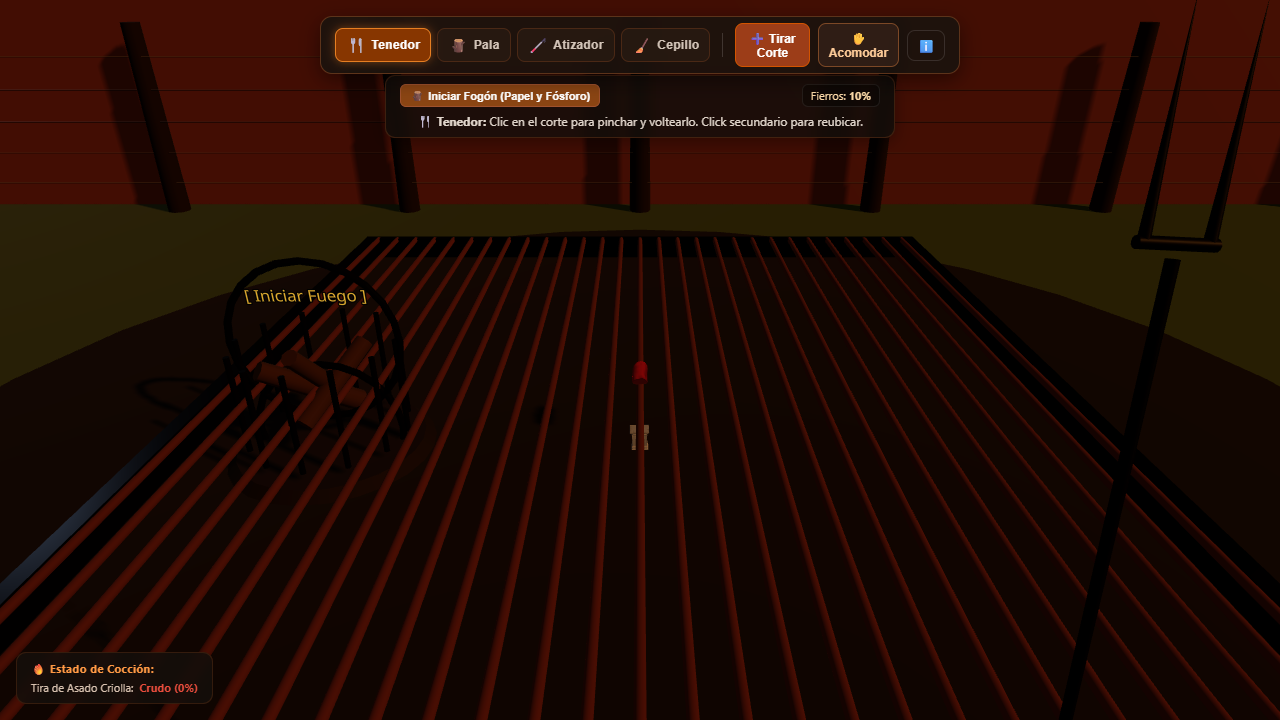
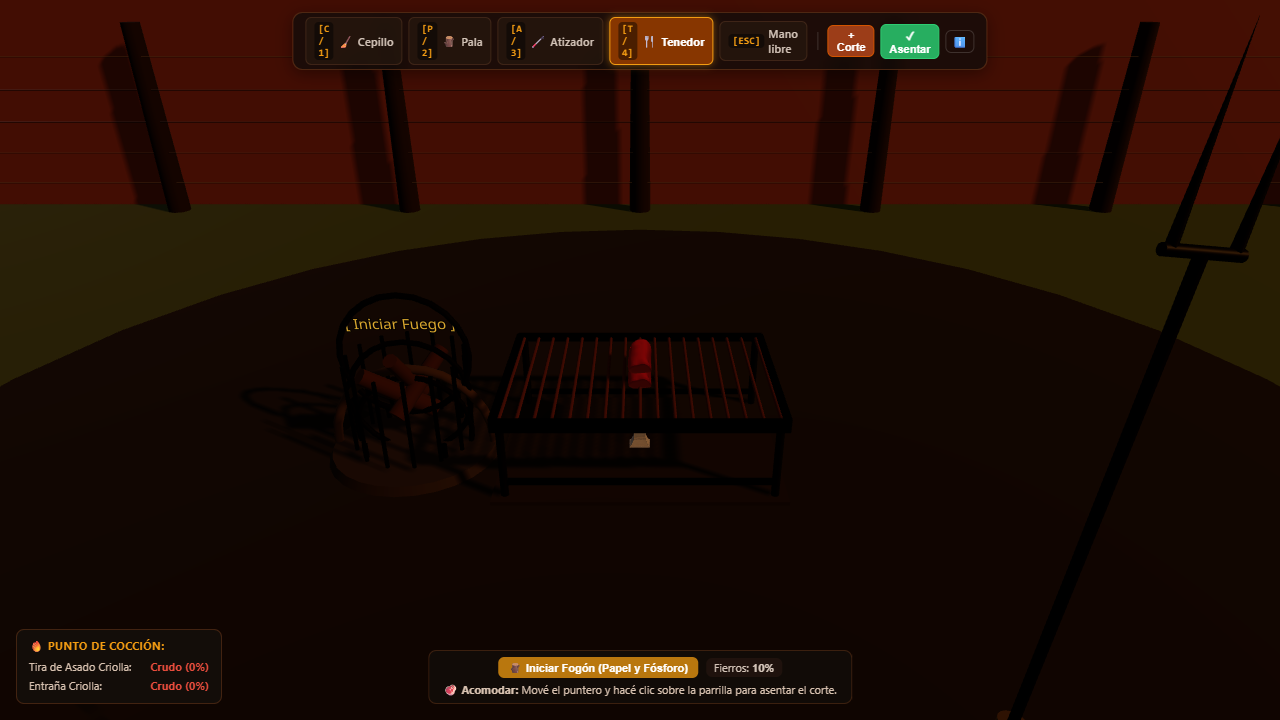
feat: optimizar posicionamiento, escala y animación en primera persona de utensilios parrilleros

diff --git a/frontend/src/components/Player/PlayerTools.tsx b/frontend/src/components/Player/PlayerTools.tsx
@@ -3,9 +3,9 @@ import { useFrame } from '@react-three/fiber';
 import { Group, Vector3, Quaternion, Euler, MathUtils } from 'three';
 import { useAsadoStore, AsadoTool } from '../../store/useAsadoStore';
 
-// Modelo procedural de tenedor parrillero criollo de dos puntas de hierro forjado
+// Modelo procedural de tenedor parrillero criollo orientado naturalmente hacia la parrilla
 export const TenedorModel: React.FC = () => (
-  <group rotation={[0.4, 0.08, -0.1]} scale={[0.5, 0.5, 0.5]}>
+  <group rotation={[-1.15, -0.22, 0.3]} scale={[0.32, 0.32, 0.32]}>
     {/* Mango de madera de quebracho lustrada */}
     <mesh position={[0, -0.32, 0]} castShadow>
       <cylinderGeometry args={[0.02, 0.024, 0.35, 16]} />
@@ -46,7 +46,7 @@ export const TenedorModel: React.FC = () => (
 
 // Modelo procedural de pala parrillera con chapa para brasas
 export const PalaModel: React.FC<{ carriedEmbers?: number }> = ({ carriedEmbers = 0 }) => (
-  <group rotation={[0.4, 0.08, -0.1]} scale={[0.5, 0.5, 0.5]}>
+  <group rotation={[-1.15, -0.22, 0.3]} scale={[0.32, 0.32, 0.32]}>
     {/* Mango de madera */}
     <mesh position={[0, -0.32, 0]} castShadow>
       <cylinderGeometry args={[0.02, 0.024, 0.35, 16]} />
@@ -88,7 +88,7 @@ export const PalaModel: React.FC<{ carriedEmbers?: number }> = ({ carriedEmbers 
         <meshStandardMaterial color="#1c1c1c" roughness={0.5} metalness={0.8} />
       </mesh>
 
-      {/* Brasas incandescentes visibles sobre la pala si se cargaron */}
+      {/* Brasas incandescentes visibles sobre la pala */}
       {carriedEmbers > 0 && (
         <group position={[0, 0, 0.025]}>
           <pointLight color="#ff4400" intensity={1.4} distance={1.0} />
@@ -118,7 +118,7 @@ export const PalaModel: React.FC<{ carriedEmbers?: number }> = ({ carriedEmbers 
 
 // Modelo procedural de atizador criollo en 'L'
 export const AtizadorModel: React.FC = () => (
-  <group rotation={[0.4, 0.08, -0.1]} scale={[0.5, 0.5, 0.5]}>
+  <group rotation={[-1.15, -0.22, 0.3]} scale={[0.32, 0.32, 0.32]}>
     {/* Mango de madera */}
     <mesh position={[0, -0.32, 0]} castShadow>
       <cylinderGeometry args={[0.02, 0.024, 0.35, 16]} />
@@ -153,7 +153,7 @@ export const AtizadorModel: React.FC = () => (
 
 // Modelo procedural de cepillo parrillero de alambre para limpiar hierros
 export const CepilloModel: React.FC = () => (
-  <group rotation={[0.4, 0.08, -0.1]} scale={[0.5, 0.5, 0.5]}>
+  <group rotation={[-1.15, -0.22, 0.3]} scale={[0.32, 0.32, 0.32]}>
     {/* Mango largo de madera */}
     <mesh position={[0, -0.25, 0]} castShadow>
       <cylinderGeometry args={[0.016, 0.02, 0.4, 12]} />
@@ -225,7 +225,7 @@ export const PlayerTools: React.FC = () => {
     };
   }, [setSelectedTool]);
 
-  const currentPos = useRef(new Vector3(0.28, -0.22, -0.55));
+  const currentPos = useRef(new Vector3(0.24, -0.18, -0.42));
   const targetPos = useRef(new Vector3());
   const targetRot = useRef(new Quaternion());
   const eulerAux = useRef(new Euler());
@@ -242,7 +242,7 @@ export const PlayerTools: React.FC = () => {
     }
   }, [toolActionTrigger]);
 
-  // Animación en useFrame: Oscilación suave rústica (sway) + respuesta activa a clics
+  // Animación viva en useFrame: Oscilación suave rústica (sway) + respuesta táctil a clics
   useFrame(({ camera, pointer, clock }, delta) => {
     if (!toolGroupRef.current) return;
 
@@ -255,9 +255,9 @@ export const PlayerTools: React.FC = () => {
     const t = clock.elapsedTime;
 
     // Balanceo natural de respiración y movimiento del cursor
-    const swayX = Math.sin(t * 1.8) * 0.008 + pointer.x * 0.03;
-    const swayY = Math.cos(t * 2.2) * 0.01 - pointer.y * 0.025;
-    const swayZ = Math.sin(t * 1.4) * 0.006;
+    const swayX = Math.sin(t * 1.8) * 0.007 + pointer.x * 0.025;
+    const swayY = Math.cos(t * 2.2) * 0.008 - pointer.y * 0.02;
+    const swayZ = Math.sin(t * 1.4) * 0.005;
 
     let actionOffsetX = 0;
     let actionOffsetY = 0;
@@ -268,7 +268,7 @@ export const PlayerTools: React.FC = () => {
 
     // Animación de acción viva cuando el asador interactúa
     if (isActing.current) {
-      actionProgress.current += delta * 4.5;
+      actionProgress.current += delta * 4.8;
       if (actionProgress.current >= 1.0) {
         actionProgress.current = 1.0;
         isActing.current = false;
@@ -278,30 +278,30 @@ export const PlayerTools: React.FC = () => {
 
       switch (selectedTool) {
         case 'tenedor':
-          // Estocada hacia adelante, descenso y giro para voltear
-          actionOffsetZ = -0.16 * pulse;
-          actionOffsetY = -0.05 * pulse;
-          actionRotX = -0.3 * pulse;
-          actionRotZ = 0.45 * pulse;
+          // Estocada hacia adelante y giro para pinchar/voltear
+          actionOffsetZ = -0.14 * pulse;
+          actionOffsetY = -0.04 * pulse;
+          actionRotX = -0.25 * pulse;
+          actionRotZ = 0.4 * pulse;
           break;
         case 'pala':
           // Inclinación hacia abajo para juntar brasas y levantada
-          actionOffsetY = -0.1 * pulse;
-          actionOffsetZ = -0.12 * pulse;
-          actionRotX = 0.35 * pulse;
+          actionOffsetY = -0.08 * pulse;
+          actionOffsetZ = -0.1 * pulse;
+          actionRotX = 0.3 * pulse;
           break;
         case 'atizador':
           // Barrido lateral criollo para mover el carbón
-          actionOffsetX = -0.12 * pulse;
-          actionOffsetY = -0.04 * pulse;
-          actionRotY = 0.4 * pulse;
+          actionOffsetX = -0.1 * pulse;
+          actionOffsetY = -0.03 * pulse;
+          actionRotY = 0.35 * pulse;
           break;
         case 'cepillo': {
           // Vaivén rápido de raspado sobre los hierros
           const scrubCycle = Math.sin(actionProgress.current * Math.PI * 4);
-          actionOffsetZ = -0.12 * pulse + scrubCycle * 0.03;
-          actionOffsetY = -0.03 * pulse;
-          actionRotX = 0.28 * pulse;
+          actionOffsetZ = -0.1 * pulse + scrubCycle * 0.025;
+          actionOffsetY = -0.025 * pulse;
+          actionRotX = 0.22 * pulse;
           break;
         }
         default:
@@ -309,11 +309,11 @@ export const PlayerTools: React.FC = () => {
       }
     }
 
-    // Posicionamiento en el espacio relativo a la cámara
+    // Posicionamiento en el espacio relativo a la cámara (esquina inferior derecha)
     const baseOffset = new Vector3(
-      0.28 + swayX + actionOffsetX,
-      -0.22 + swayY + actionOffsetY,
-      -0.55 + swayZ + actionOffsetZ
+      0.22 + swayX + actionOffsetX,
+      -0.16 + swayY + actionOffsetY,
+      -0.4 + swayZ + actionOffsetZ
     );
 
     targetPos.current.copy(baseOffset);
@@ -323,8 +323,8 @@ export const PlayerTools: React.FC = () => {
     toolGroupRef.current.position.copy(currentPos.current);
 
     eulerAux.current.set(
-      camera.rotation.x + actionRotX + Math.sin(t * 1.5) * 0.015,
-      camera.rotation.y + actionRotY + Math.cos(t * 1.3) * 0.015,
+      camera.rotation.x + actionRotX + Math.sin(t * 1.5) * 0.012,
+      camera.rotation.y + actionRotY + Math.cos(t * 1.3) * 0.012,
       camera.rotation.z + actionRotZ,
       camera.rotation.order
     );

diff --git a/frontend/src/App.tsx b/frontend/src/App.tsx
@@ -35,7 +35,7 @@ const App: React.FC = () => {
       {/* Canvas 3D principal */}
       <Canvas
         shadows
-        camera={{ position: [0, 1.8, 2.8], fov: 50 }}
+        camera={{ position: [0, 1.15, 1.45], fov: 46 }}
       >
         <Suspense fallback={null}>
           {/* Ambientación pampeana y físicas Rapier */}
@@ -58,13 +58,13 @@ const App: React.FC = () => {
         <OrbitControls
           makeDefault
           enabled={!placingMeatId}
-          target={[0, 0.42, 0]}
+          target={[0, 0.38, 0]}
           minAzimuthAngle={-Math.PI / 3}
           maxAzimuthAngle={Math.PI / 3}
           minPolarAngle={Math.PI / 6}
           maxPolarAngle={Math.PI / 2.15}
-          minDistance={1.2}
-          maxDistance={4.2}
+          minDistance={0.8}
+          maxDistance={3.2}
           enablePan={false}
         />
       </Canvas>
